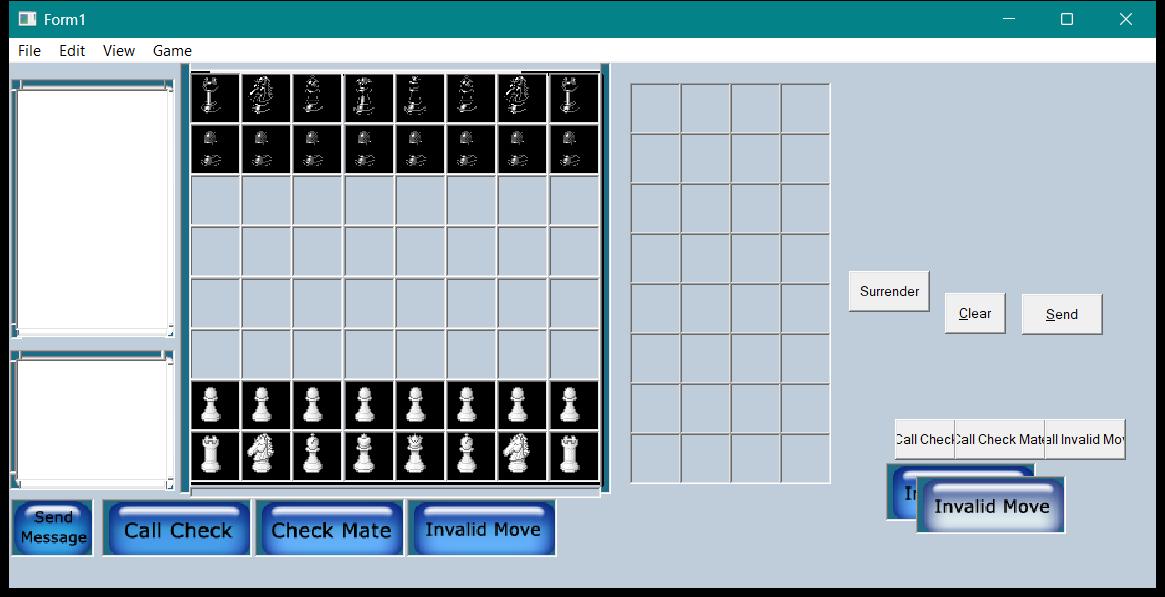
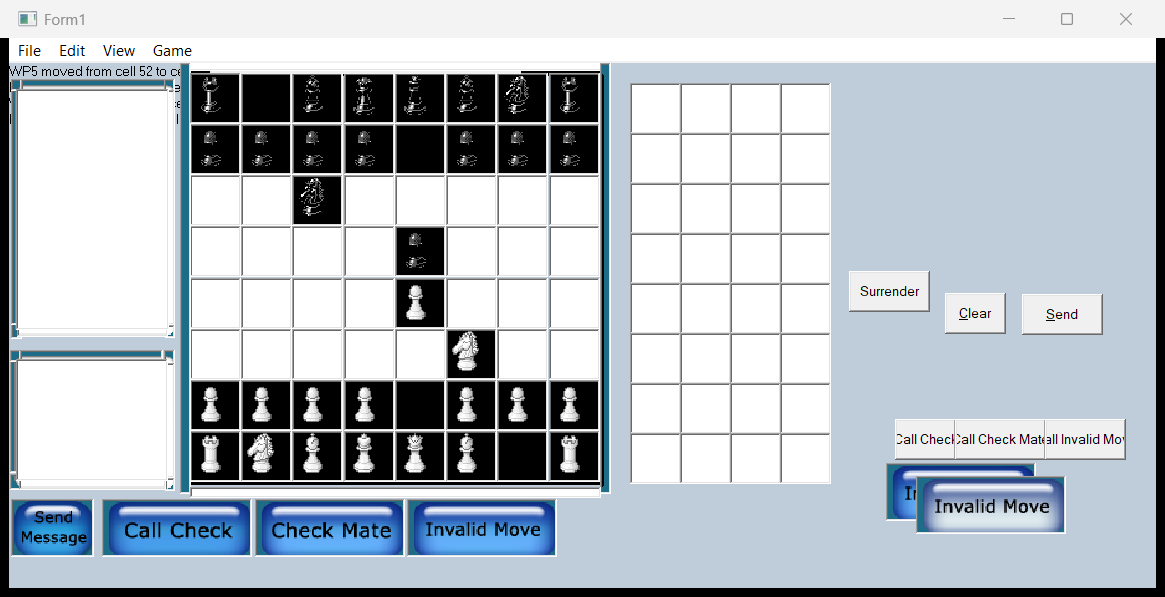
Drive real windows from scripts, clip children, play Capture King in the GUI test (MP-0008)

Changed region(s): [[0.1545, 0.1206, 0.7107, 0.8141], [0.0, 0.0, 1.0, 0.1809], [0.1545, 0.7236, 0.5253, 0.8442]]

diff --git a/src/interpreter/forms.cpp b/src/interpreter/forms.cpp
@@ -541,7 +541,7 @@ struct FormSupport {
         if (!in.forms_) {
             in.forms_ = std::make_shared<FormRuntime>();
 #ifdef _WIN32
-            if (in.ui_mode_ == "win32" && in.ui_script_.empty()) {
+            if (in.ui_mode_ == "win32") {
                 auto native = std::make_unique<ui::Win32Host>();
                 if (native->usable()) {
                     in.forms_->host = std::move(native);
@@ -3955,8 +3955,37 @@ struct FormSupport {
         if (command == "wait") {
             if (state.headless != nullptr) {
                 state.headless->advance_time(std::atol(target_text.c_str()));
+                return ocx_poll_sockets(in);
             }
-            return ocx_poll_sockets(in);
+            // A real host: let events and sockets run for that long.
+            const auto until =
+                std::chrono::steady_clock::now() +
+                std::chrono::milliseconds(std::atol(target_text.c_str()));
+            while (std::chrono::steady_clock::now() < until) {
+                if (!ocx_poll_sockets(in)) {
+                    return false;
+                }
+                if (const auto event = state.host->next_event(false)) {
+                    if (!dispatch(in, *event)) {
+                        return false;
+                    }
+                } else {
+                    std::this_thread::sleep_for(std::chrono::milliseconds(5));
+                }
+            }
+            return true;
+        }
+        if (command == "screenshot") {
+            // screenshot <form> [moment]: a PNG of the form (with
+            // --screenshots).
+            Target shot;
+            if (resolve_target(in, target_text, shot) && shot.form != nullptr) {
+                if (const ControlObject* form_object = control_of(*shot.form)) {
+                    screenshot(in, *form_object,
+                               rest.empty() ? "script" : rest.c_str());
+                }
+            }
+            return true;
         }
         if (command == "pump") {
             // pump <ms>: let the Winsock controls run for that long.
@@ -4172,7 +4201,8 @@ struct FormSupport {
         if (!ok) {
             // A Winsock handler failed.
         } else if (const auto event = state.host->next_event(
-                       state.headless == nullptr && !state.host->exhausted())) {
+                       state.headless == nullptr && !state.host->exhausted() &&
+                       state.script_next >= state.script.size())) {
             if (event->name == "WfcExit") {
                 state.exit_requested = true;
                 state.host->wake_timer(1, 0);

diff --git a/src/ui/win32_host.cpp b/src/ui/win32_host.cpp
@@ -551,8 +551,7 @@ WindowId Win32Host::create_window(const std::string& kind,
                 instance, this);
         } else {
             entry->hwnd = CreateWindowExW(
-                0, kFormClass, L"",
-                WS_OVERLAPPEDWINDOW | (kind == "MDIForm" ? WS_CLIPCHILDREN : 0),
+                0, kFormClass, L"", WS_OVERLAPPEDWINDOW | WS_CLIPCHILDREN,
                 CW_USEDEFAULT, CW_USEDEFAULT, 400, 300, nullptr, nullptr,
                 instance, this);
             if (kind == "MDIForm" && entry->hwnd != nullptr) {
@@ -619,9 +618,10 @@ WindowId Win32Host::create_window(const std::string& kind,
     } else if (kind == "VScrollBar") {
         make_child(L"SCROLLBAR", SBS_VERT | WS_TABSTOP);
     } else if (kind == "PictureBox" || kind == "UserControl" || kind == "OLE") {
-        entry->hwnd = CreateWindowExW(WS_EX_CLIENTEDGE, kPictureClass, L"",
-                                      WS_CHILD | WS_CLIPSIBLINGS, 0, 0, 0, 0,
-                                      parent_handle, id_value, instance, this);
+        entry->hwnd =
+            CreateWindowExW(WS_EX_CLIENTEDGE, kPictureClass, L"",
+                            WS_CHILD | WS_CLIPSIBLINGS | WS_CLIPCHILDREN, 0, 0,
+                            0, 0, parent_handle, id_value, instance, this);
         entry->surface_background = 0xFFFFFF;
     } else {
         entry->lightweight = true;  // Timer, Shape, Line, Image, ...

diff --git a/planning/work-log-mp-0008.md b/planning/work-log-mp-0008.md
@@ -25,3 +25,4 @@
 | 2026-10-12 #11 | Planning | Draft WPM package and first-release plan (`MP-0008-release-plan.md`) modelled on WCRT's release process; nothing tagged, signed or published | Not applicable |
 | 2026-10-12 #12 | Construction | Gaps from Capture King's menus: `Declare`d DLL routines are now called in their DLLs (`REQ-0307`; `ClientToScreen`, `SetCursorPos` ...); a bare `End` inside an `If` block; opening a file for Input, Binary or Random again under another number (only Output and Append conflict, per the VB `Open` documentation); UDP sockets send to broadcast addresses and bind `LocalPort` on first send; corpus 199 and 200 | CTest 374/374 |
 | 2026-10-12 #13 | Construction | More Capture King gaps: `Input #`/`Line Input #` into undeclared variables, `Form2.Control = x` default-property assignment, `Left(s, n)` in form code, concatenation of controls in untaken branches (`REQ-0306`) | CTest 374/374 |
+| 2026-10-12 #14 | Construction | `--ui-script` also drives the real windows (`wait` pumps events, `screenshot` captures a form); forms and picture boxes clip their children so a parent repaint no longer erases them; `TC-MP0008-vb6games-captureking` plays four moves in real windows and captures the board; the headless script test compares the game output | CTest 374/374 |

diff --git a/README.MD b/README.MD
@@ -27,7 +27,8 @@ native Win32 windows.
 McKirgan (GPL), run unmodified from the
 [`vb6games`](https://github.com/Thewafflication/vb6games) corpus: 150 picture
 boxes as the board, menus, buttons with pictures, Winsock and Common Dialog
-controls (some pictures and button overlays still draw wrongly):
+controls, here after four scripted moves (the button overlays at the lower right
+still draw wrongly):
 
 ![Capture King, a VB6 chess game, running in WFC](evidence/screenshots/vb6games-captureking.png)
 
@@ -198,8 +199,10 @@ The program is still interpreted; machine-code generation is not part of
 also produces `wfcvbrun.dll`, the `MSVBVM60` export directory with stub exports.
 
 **Running someone else's project.** `--exit-after <ms>` ends a `--gui` run after
-that long (closing the forms), and `--ui-script <file>` supplies the scripted
-input of a headless run, so a project can be tested without editing its `.vbp`.
+that long (closing the forms), and `--ui-script <file>` supplies scripted
+input (clicks, drags, `wait`, `screenshot <form> <name>`) to a headless run or,
+with `--gui`, to the real windows, so a project can be tested without editing
+its `.vbp`.
 The `tests/vb6games` submodule holds archived VB6 games for this:
 
 ```powershell
